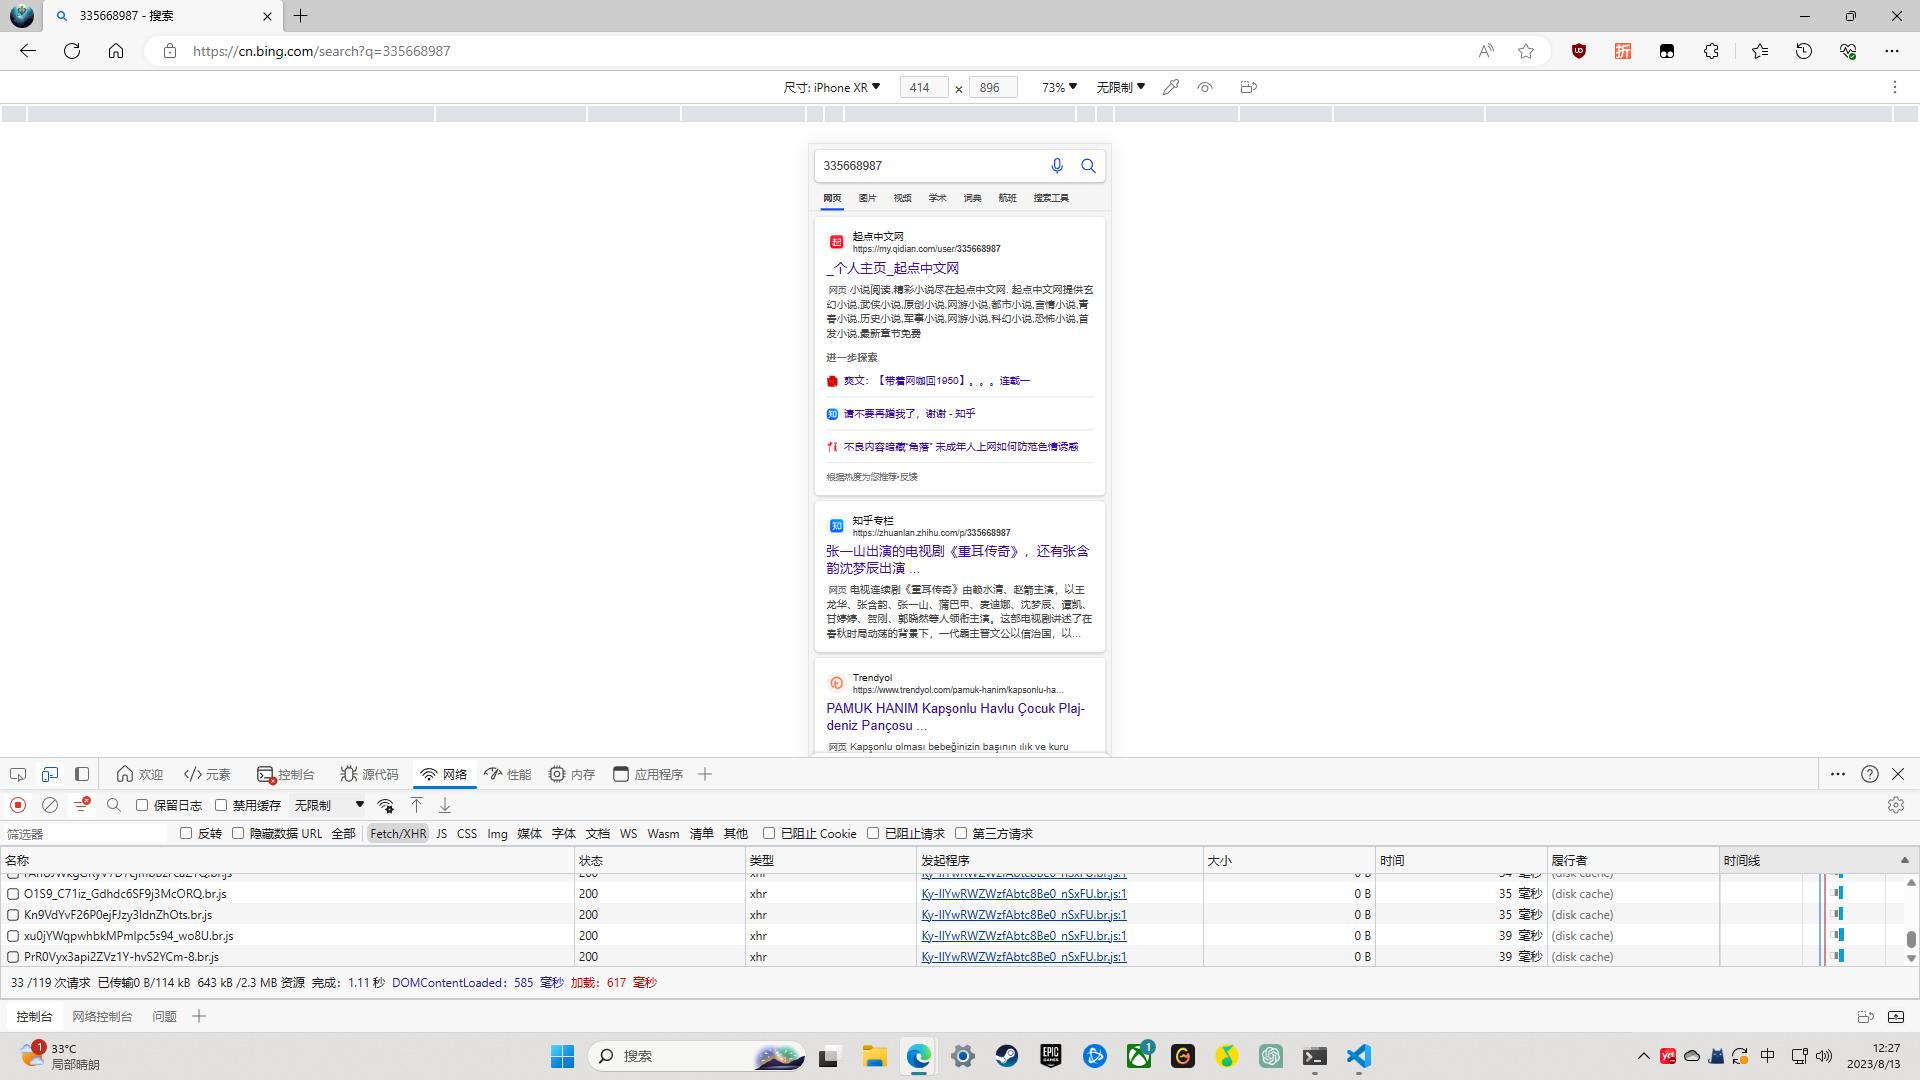
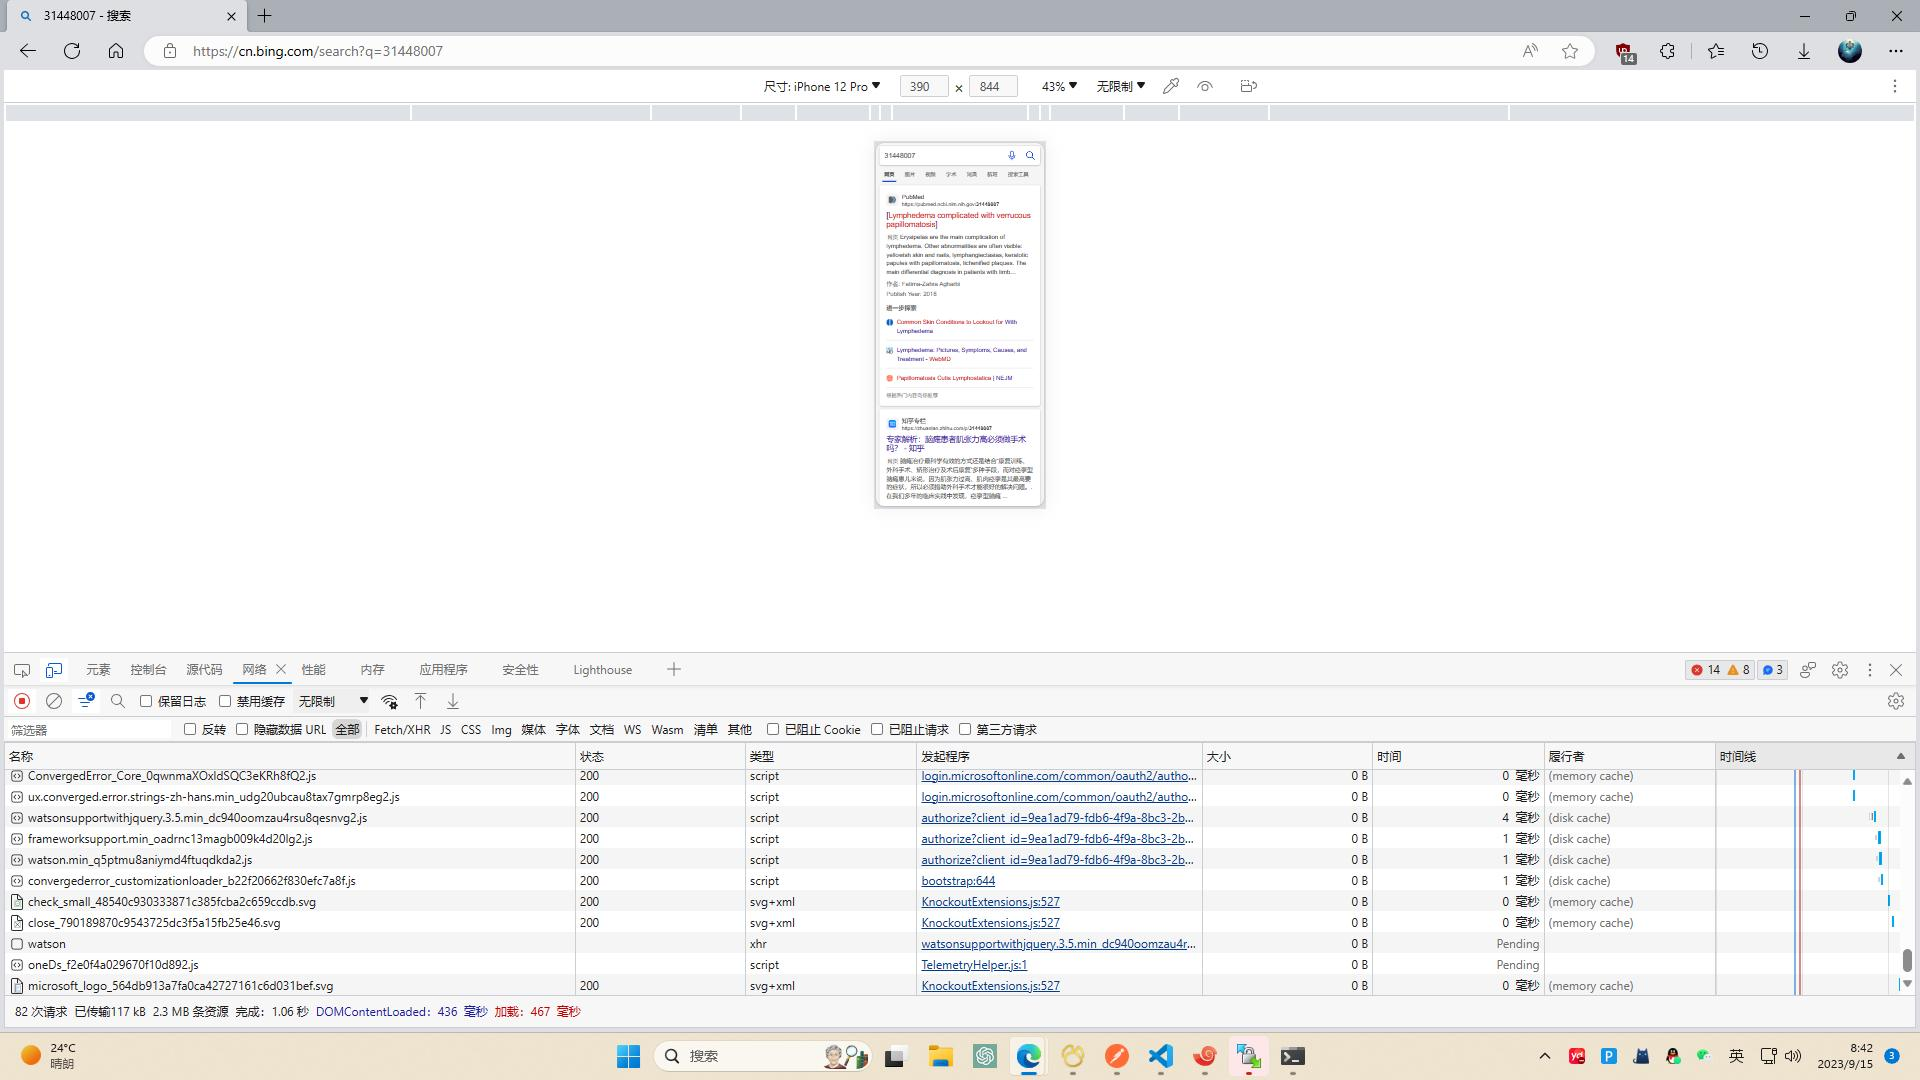
修复移动端转化问题

diff --git a/main.py b/main.py
@@ -1,34 +1,35 @@
 import pyautogui
 import time
-import datetime
 import os
 import cv2
 import random
-
-# os.system('"C:\Program Files (x86)\Microsoft\Edge\Application\msedge.exe"')
-
-'''
-Description: 截取当前画面
-return *
-Author: LCY
-'''
-
 
 def shotSCreen():
     image_dir = r"./screen-image"
     image_file = f"{image_dir}/screen.jpg"
     pyautogui.screenshot(image_file)
 
+def imageMatch(srctempl: str):
+    # 截取当前画面
+    shotSCreen()
 
-'''
-Description: 点击指定图片位置
-param * srctempl  
-return *
-Author: LCY
-'''
+    screenScale = 1
 
+    # 读取模板图像和屏幕截图图像
+    target = cv2.imread(srctempl)
+    temp = cv2.imread(r'.\screen-image\screen.jpg')
 
-def ImageMatch(srctempl: str):
+    tempheight, tempwidth = temp.shape[:2]
+    # 先缩放屏幕截图 INTER_LINEAR INTER_AREA
+    scaleTemp = cv2.resize(
+        temp, (int(tempwidth / screenScale), int(tempheight / screenScale)))
+
+    # 匹配图片
+    res = cv2.matchTemplate(scaleTemp, target, cv2.TM_CCOEFF_NORMED)
+    mn_val, max_val, min_loc, max_loc = cv2.minMaxLoc(res)
+    return max_val >= 0.8
+
+def imageClick(srctempl: str):
     # 截取当前画面
     shotSCreen()
 
@@ -42,7 +43,7 @@ def ImageMatch(srctempl: str):
     # 先缩放屏幕截图 INTER_LINEAR INTER_AREA
     scaleTemp = cv2.resize(
         temp, (int(tempwidth / screenScale), int(tempheight / screenScale)))
-    
+
     # 匹配图片
     res = cv2.matchTemplate(scaleTemp, target, cv2.TM_CCOEFF_NORMED)
     mn_val, max_val, min_loc, max_loc = cv2.minMaxLoc(res)
@@ -57,49 +58,33 @@ def ImageMatch(srctempl: str):
 
         # 左键点击屏幕上的这个位置
         pyautogui.click(center_x, center_y, button='left')
-
-
-'''
-Description: 搜索
-return *
-Author: LCY
-'''
-def search(q: str):
-    ImageMatch(r'.\click-img\search_input.png')
-
+    
+def autoSearch(count: int):
+    index = 0
+    while index < count:
+        imageClick(r'.\click-img\search_input.png')
+        search = random.randint(0, 999999999)
+        pyautogui.typewrite(f"https://cn.bing.com/search?q={search}")
+        time.sleep(1)
+        pyautogui.press("enter")
+        pyautogui.press("enter")
+        time.sleep(1)
+        index += 1
 
 if __name__ == "__main__":
-    search_list = ["q", "w", "e", "r"]
     # 打开浏览器
     os.system('"C:\Program Files (x86)\Microsoft\Edge\Application\msedge.exe"')
     time.sleep(1)
-    # 点击初始地址栏
-    ImageMatch(r'.\click-img\search_start.png')
 
     # 开始PC循环搜索
-    count = 0
-    while count < 40:
-        search = random.randint(0, 999999999)
-        pyautogui.typewrite(f"https://cn.bing.com/search?q={search}")
-        time.sleep(1)
-        pyautogui.press("enter")
-        pyautogui.press("enter")
-        time.sleep(1)
-        shotSCreen()
-        ImageMatch(r'.\click-img\search_input.png')
-        count += 1
+    autoSearch(34)
+
+    # 转换到移动端
+    pyautogui.press("f12")
+    time.sleep(1)
+    if (imageMatch(r'.\click-img\if-phone.png') == False):
+        imageClick(r'.\click-img\f12-off.png')
+    time.sleep(1)
 
     # 开始移动端循环搜索
-    pyautogui.press("f12")
-    ImageMatch(r'.\click-img\search_input.png')
-    count = 0
-    while count < 30:
-        search = random.randint(0, 999999999)
-        pyautogui.typewrite(f"https://cn.bing.com/search?q={search}")
-        time.sleep(1)
-        pyautogui.press("enter")
-        pyautogui.press("enter")
-        time.sleep(1)
-        shotSCreen()
-        ImageMatch(r'.\click-img\search_input.png')
-        count += 1
+    autoSearch(21)
